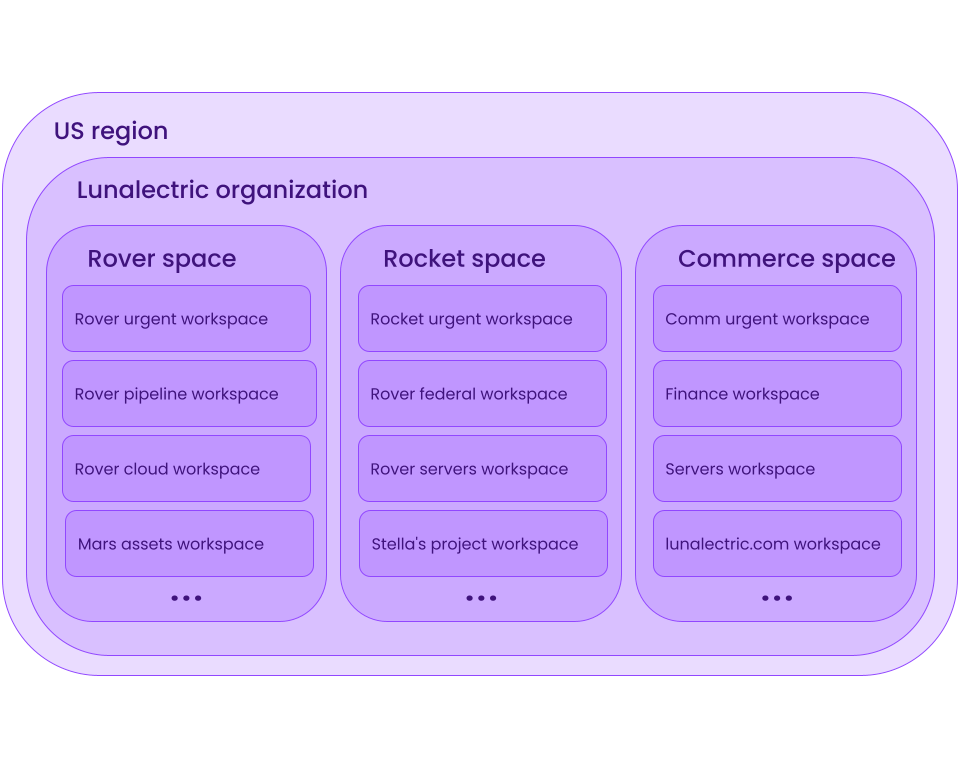
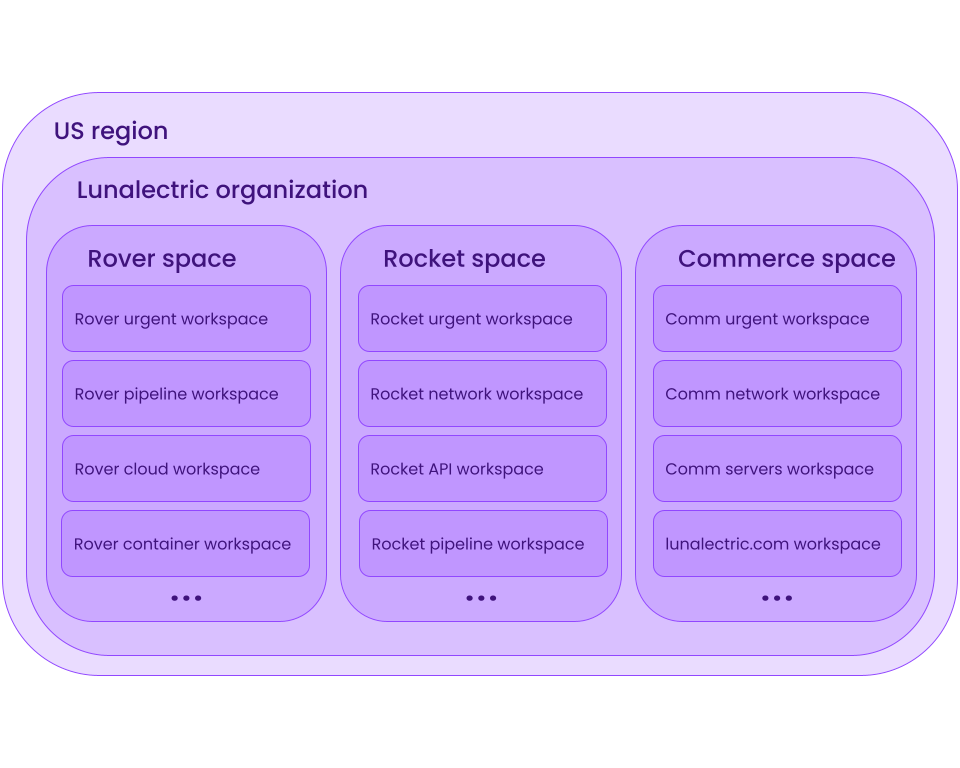
develop docs a little more

diff --git a/docs/platform/start/organize/workspaces.md b/docs/platform/start/organize/workspaces.md
@@ -6,8 +6,140 @@ description: This page provides detailed information about workspaces in Mondoo 
 image: /img/featured_img/mondoo-feature.jpg
 ---
 
-![Workspaces](/img/platform/security/workspaces.png)
+FOO BAR BAZ start with a screenshot
 
+Workspaces are ad hoc groups of assets you want to view together. You might have a workspace for a project, another for monitoring urgent problems across your infrastructure, and another for a type of asset.
 
+Think of workspaces more as views rather than as structural divisions of your Mondoo organization. A single asset can be included in multiple workspaces.
+
+For example, suppose your infrastructure includes an employee's macOS workstation, which has a *critical* risk rating. The workstation is in a single [space](/platform/start/organize/spaces), which is in a single [organization](/platform/start/organize/organizations). But it can appear in both a macOS devices workspace and a workspace that shows all critical assets.
+
+A space can contain an unlimited number of workspaces, and their purpose is entirely up to you. Their flexibility lets them meet your unique business needs.
+
+## Example workspaces
+
+Suppose our imaginary sample business, Lunalectric, has a space is dedicated to the Rover business group, a division within the company.
+
+![Sample workspaces in Rover space](/img/src/platform/start/mars-rover-space.png)
+
+This space contains many different types of assets, including the Rover team's Azure and SaaS infrastructure, deployment pipelines, and employee workstations. They use workspaces to accomplish these goals:
+
+- View smaller, more manageable portions of their infrastructure
+
+- Easily assess the security of their different types of infrastructure
+
+- Highlight the assets that require urgent fixes
+
+- Show Linux assets that require patching
+
+As another example, suppose Lunalectric has a space that contains all of the company's AWS cloud infrastructure. With hundreds of AWS assets, they need easy ways to break down that space and understand where their security strengths and weaknesses lie.
+
+![Sample workspaces in AWS space](/img/src/platform/start/lunalectric-aws-space.png)
+
+To accomplish this, they create a workspace for each type of AWS asset as well as an "All AWS urgent" workspace where they can quickly view the AWS assets that pose the greatest risk to Lunalectric.
+
+## Set up workspaces
+
+You set up a workspace by defining qualifying criteria, attributes that assets must (or must not) have to be included. Mondoo dynamically creates the workspace each time you view it by including assets in the space that currently meet your criteria.
+
+Mondoo currently supports these criteria for including assets in, or excluding assets from, a workspace:
+
+| Criteria         | Example values                                                                                                       |
+|------------------|----------------------------------------------------------------------------------------------------------------------|
+| Platform         | Alpine Linux, Atlassian Jira, AWS S3 bucket, GitHub repository, Kubernetes pod, macOS, Slack team, Terraform plan... |
+| Platform version | 3, 4.5, 12.75                                                                                                        |
+| Risk rating      | Critical, High, Medium, Low, None                                                                                    |
+| Asset name      | test, 2024, win, us-east-1, docker-                                                     |
+
+:::tip
+
+We continue to add new criteria for workspaces; check back soon for more.
+
+:::
+
+### Example criteria
+
+You can define very simple workspaces like these:
+
+- Is a GCP compute image
+
+- Risk rating is not Low or None
+
+- Name contains `eu-central`
+
+- Is a GitHub repository or a GitLab project
+
+Or you can build a simple query to fine-tune workspace contents. These are examples of simple queries:
+
+- Is a Debian device and version is not 12
+
+- Name contains `dod` and risk rating is Critical or High
+
+- Is a macOS device and version is 15.1.0 and name contains `home`
+
+Mondoo workspaces support complex queries as well. For example, this query defines a workspace for viewing all older versions of 2 popular Linux distributions:
+
+   (Is a Debian device and version is not 12)
+   and
+   (Is a Fedora device and version is not 40 or 41)
+   and
+   (Is a Red Hat (RHEL) device and is not version 9.5)
+
+### Workspaces are dynamic
+
+When you create a workspace, what you save is the name, description, and the criteria you define. You don't save the actual assets included in the workspace. Mondoo rebuilds a workspace every time you view it.
+
+For example, suppose you set up a workspace named Urgent AlmaLinux. The criteria you define for the workspace is AlmaLinux devices with Critical or High risk ratings.
+
+When you first view the Urgent AlmaLinux workspace, it contains 25 assets&mdash;all older versions of AlmaLinux that have other risk factors. If you patch 12 of those assets and remove additional risk factors from two others, the next time you view the workspace, it will contain only 11 assets.
+
+If AlmaLinux releases an advisory about a vulnerability in the newest version, this could mean that even your AlmaLinux devices running the newest version now have Critical or High risk ratings. So the next time you view the workspace, it might contain 40 assets.
+
+### Add a new workspace
+
+Use the workspace query builder to choose criteria that define what assets Mondoo includes.
+
+BAZ SCREENSHOT
+
+BAZ discuss how the different chunks work like parentheses in a Boolean query
+BAZ provide examples of how they work together
+
+1. [Navigate to the space](/platform/start/navigate/) where you want to add a new workspace.
+
+2. In the side navigation bar, select **Workspaces**.
+
+3. Select the plus sign (+) near the top-right corner of the page.
+
+4. Create a query to define the assets you want Mondoo to dynamically include in the workspace:
+
+   a. Under **Asset selection 1**, select the plus sign (+) and select the the criteria to define.
+
+   b. Choose the operator: **IS**, **NOT**, or **CONTAINS**.
+
+   c. Choose the value(s).
+
+   d. To add another condition for the query, select **+ ADD CONDITION**.
+
+   e. Choose how to combine the conditions:
+
+      - To include assets only if they meet both conditions, select **AND**.
+
+      - To include assets that meet at least one condition, select **OR**.
+
+   f. Choose the criteria, operator, and value for the condition.
+
+   g. Repeat steps d-f to define as many conditions as you want.
+
+5. To create a complex query with another set of criteria, select
+
+NOT FINISHED FOO BAR BAZ
+
+## View workspaces
+
+## Manage workspaces
+
+### Edit a workspace
+
+### Remove a workspace
 
 ---

diff --git a/docs/platform/start/organize/overview.md b/docs/platform/start/organize/overview.md
@@ -6,7 +6,7 @@ descriptions: Create a manageable structure for monitoring and securing your inf
 image: /img/featured_img/mondoo-feature.jpg
 ---
 
-You can rely on Mondoo to secure an enormous quantity of assets in your infrastructure&mdash;cloud platforms, workstations, servers, containers, SaaS platforms, and much more. For larger businesses, Mondoo provides asset intelligence, security, and compliance for thousands of assets. To make securing and monitoring your infrastructure manageable, you can arrange your Mondoo assets in regions, organizations, spaces, and workspaces. It's best to plan your infrastructure structure before you begin adding assets to Mondoo.
+You can rely on Mondoo to secure an enormous quantity of assets in your infrastructure&mdash;cloud platforms, workstations, servers, containers, SaaS platforms, and much more. For larger businesses, Mondoo provides asset intelligence, security, and compliance for thousands of assets. To make securing and monitoring your infrastructure manageable, you can arrange your Mondoo assets in regions, organizations, spaces, and workspaces. It's best to plan your infrastructure organization before you begin adding assets to Mondoo.
 
 ![Region, organization, space, and workspace in Mondoo](/img/src/platform/start/organize-basics.png)
 

diff --git a/docs/intro.md b/docs/intro.md
@@ -18,6 +18,8 @@ The Mondoo unified security platform finds and prioritizes vulnerabilities and m
 
 - [What Is Mondoo?](/platform/start/plat-what-is/)
 
+- [Plan your Mondoo Organization](/platform/start/organize/overview/)
+
 #### [Integrate Your Infrastructure with Mondoo](/platform/infra/overview/)
 
 - [Cloud](/platform/infra/cloud/overview/)
